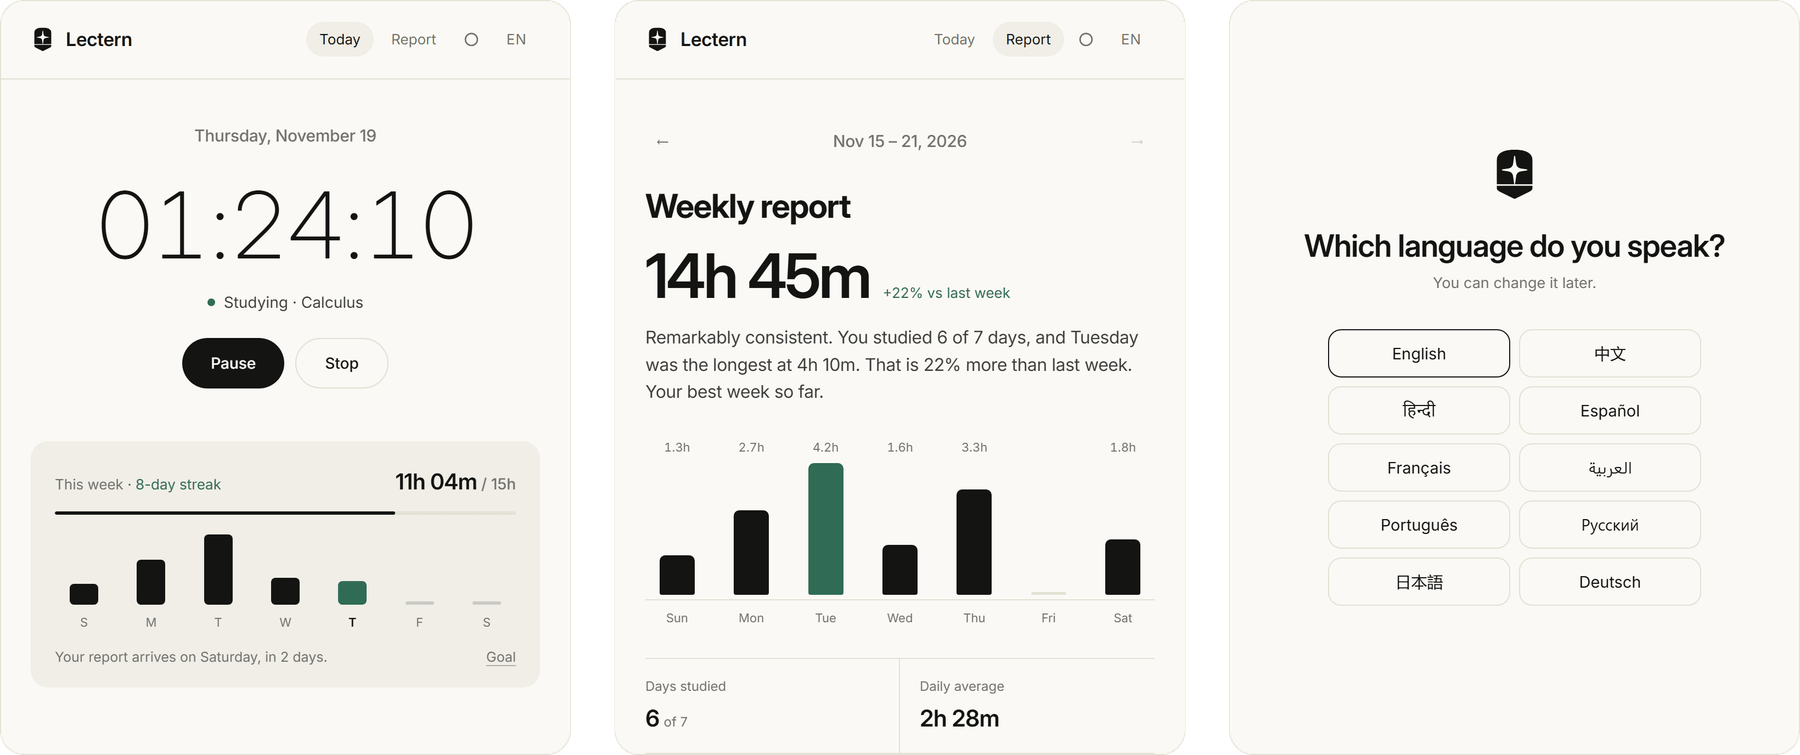
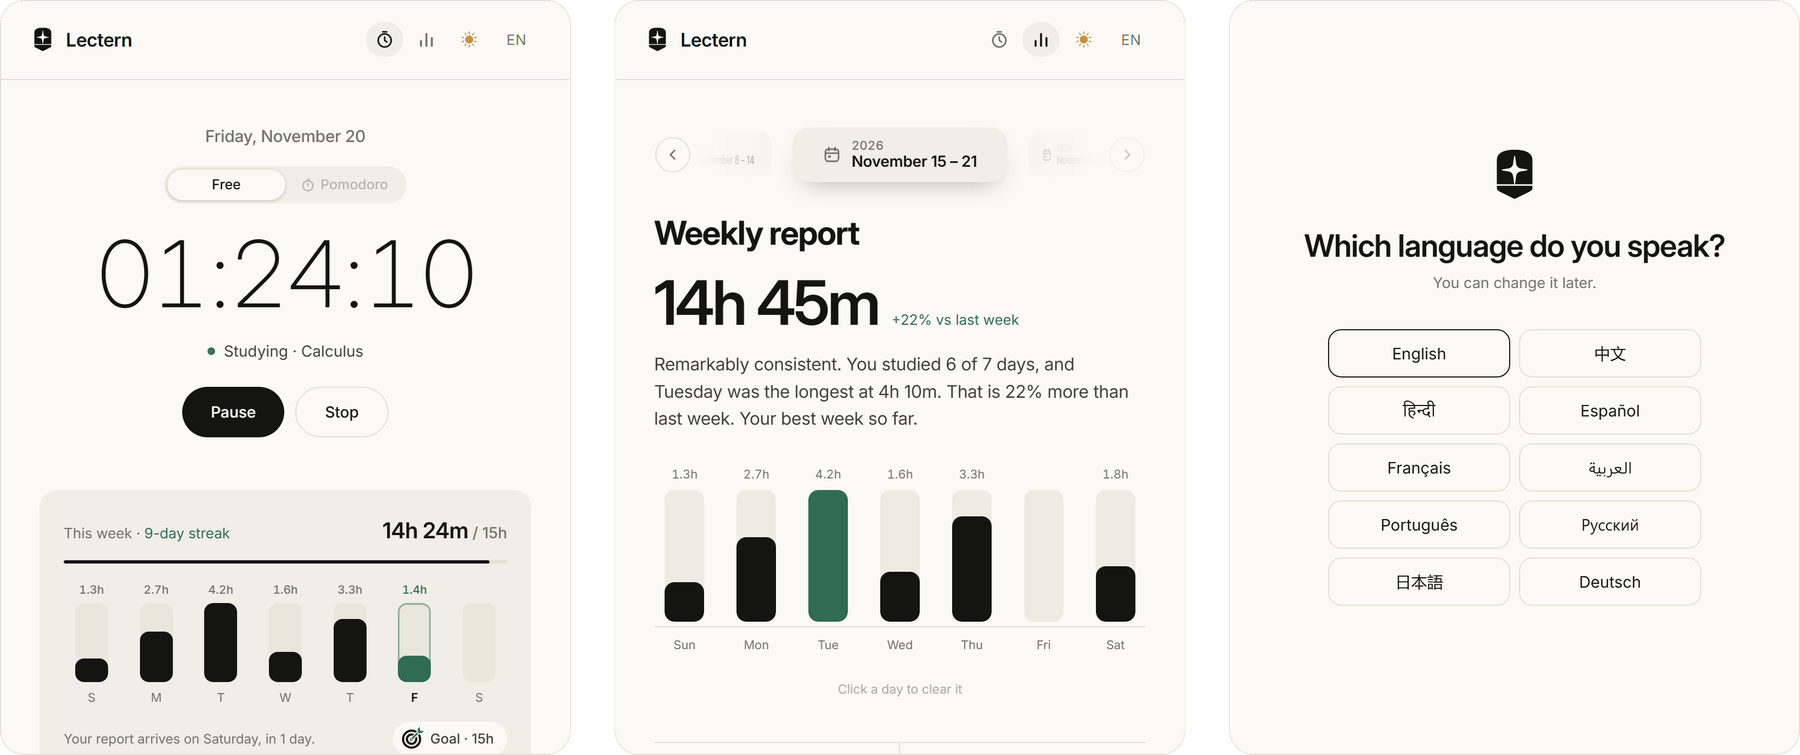
Animated clips of the app, fresh screenshots, no keyboard section on the site

diff --git a/docs/index.html b/docs/index.html
@@ -99,11 +99,6 @@
     table { width: 100%; margin-top: 20px; border-collapse: collapse; font-family: var(--sans); font-size: 15px; }
     td { padding: 12px 0; border-bottom: 1px solid var(--line); vertical-align: top; color: var(--ink-soft); }
     td:first-child { width: 34%; padding-right: 16px; color: var(--ink); font-weight: 600; }
-    kbd {
-      display: inline-block; min-width: 26px; padding: 1px 7px;
-      border-radius: 6px; background: var(--surface); box-shadow: inset 0 -1px 0 var(--line);
-      font-family: var(--sans); font-size: 13px; text-align: center; color: var(--ink);
-    }
 
     .langs { margin-top: 20px; display: flex; flex-wrap: wrap; gap: 8px; font-family: var(--sans); font-size: 14px; }
     .langs span { padding: 5px 12px; border-radius: 999px; background: var(--surface); color: var(--ink-soft); }
@@ -188,7 +183,7 @@
       </div>
 
       <figure class="reveal">
-        <img class="shot narrow" src="shots/today.webp" alt="Lectern's Today view: a running timer, the subject, and the week so far" width="1040" height="1400">
+        <img class="shot narrow" src="clips/timer.webp" alt="Pressing start: the clock begins to run" width="640" height="788">
       </figure>
 
       <section>
@@ -224,7 +219,7 @@
         <h2>The classic rhythm, tuned to yours.</h2>
         <p>Switch the timer from Free to Pomodoro and it counts down instead: 25 minutes of focus, 5 of rest, and 15 after every fourth round. Click Pomodoro again to change any of it.</p>
         <figure class="pair reveal">
-          <img class="shot" src="shots/pomodoro.webp" alt="A Pomodoro focus block counting down, round 2 of 4" width="1040" height="840">
+          <img class="shot" src="clips/pomodoro.webp" alt="Switching to Pomodoro, choosing a chime and the volume, then the countdown" width="640" height="886">
           <img class="shot" src="shots/pomodoro-settings.webp" alt="Pomodoro settings: lengths, chimes and volume" width="1040" height="1440">
         </figure>
         <p>A soft chime tells you when to rest, and another when to get back to it. Pick each from eight clean sounds, or none, and set the volume to the exact percent. Focus counts as study and rest as break time, so the report reads the same either way.</p>
@@ -235,7 +230,7 @@
         <h2>A report that writes itself.</h2>
         <p>The first time you open Lectern on a Saturday, the report opens by itself. Miss Saturday and it waits for you. Click the dates to open a calendar and jump to any week.</p>
         <figure class="pair reveal">
-          <img class="shot" src="shots/report.webp" alt="The weekly report: total hours, a written summary and a day-by-day chart" width="1040" height="1520">
+          <img class="shot" src="clips/report.webp" alt="The weekly report: bars growing, moving between weeks and opening the calendar" width="640" height="886">
           <img class="shot" src="shots/calendar.webp" alt="The calendar: studied days in green, today ringed, the open week outlined" width="1040" height="1040">
         </figure>
         <ul class="points">
@@ -269,17 +264,6 @@
         <figure class="reveal">
           <img class="shot narrow" src="shots/languages.webp" alt="The first-run language picker" width="1040" height="1400">
         </figure>
-      </section>
-
-      <section>
-        <p class="kicker">Keyboard</p>
-        <h2>Hands stay on the keys.</h2>
-        <table>
-          <tr><td><kbd>Space</kbd></td><td>Start, pause or resume, or skip a Pomodoro break</td></tr>
-          <tr><td><kbd>S</kbd></td><td>Stop (press twice)</td></tr>
-          <tr><td><kbd>←</kbd> <kbd>→</kbd></td><td>Previous or next week, in the report</td></tr>
-          <tr><td><kbd>Esc</kbd></td><td>Close the calendar or the Pomodoro settings</td></tr>
-        </table>
       </section>
 
       <section id="questions">

diff --git a/README.md b/README.md
@@ -57,6 +57,10 @@ what day it is.
 
 ### Every day
 
+<p align="center">
+  <img src="docs/clips/timer.webp" width="360" alt="Pressing start: the clock begins to run">
+</p>
+
 | | |
 | :-- | :-- |
 | **Start** | You are studying. The clock runs. |
@@ -67,6 +71,10 @@ You can type what you are studying before you start, or leave it blank. Lectern
 remembers your subjects and suggests them next time.
 
 ### Every Saturday
+
+<p align="center">
+  <img src="docs/clips/report.webp" width="360" alt="The weekly report: bars growing, moving between weeks and opening the calendar">
+</p>
 
 The first time you open Lectern on a Saturday, the report opens by itself. Miss
 Saturday and it is waiting for you next time. Click the dates to open a calendar
@@ -80,6 +88,10 @@ and jump to any week you have studied.
 - A short written summary, which tells you when it is your best week yet
 
 ### Pomodoro, if you like it
+
+<p align="center">
+  <img src="docs/clips/pomodoro.webp" width="360" alt="Switching to Pomodoro, choosing a chime and the volume, then the countdown">
+</p>
 
 Switch the timer from **Free** to **Pomodoro** and it counts down instead. The
 classic rhythm comes ready: 25 minutes of focus, 5 of rest, and 15 after every
